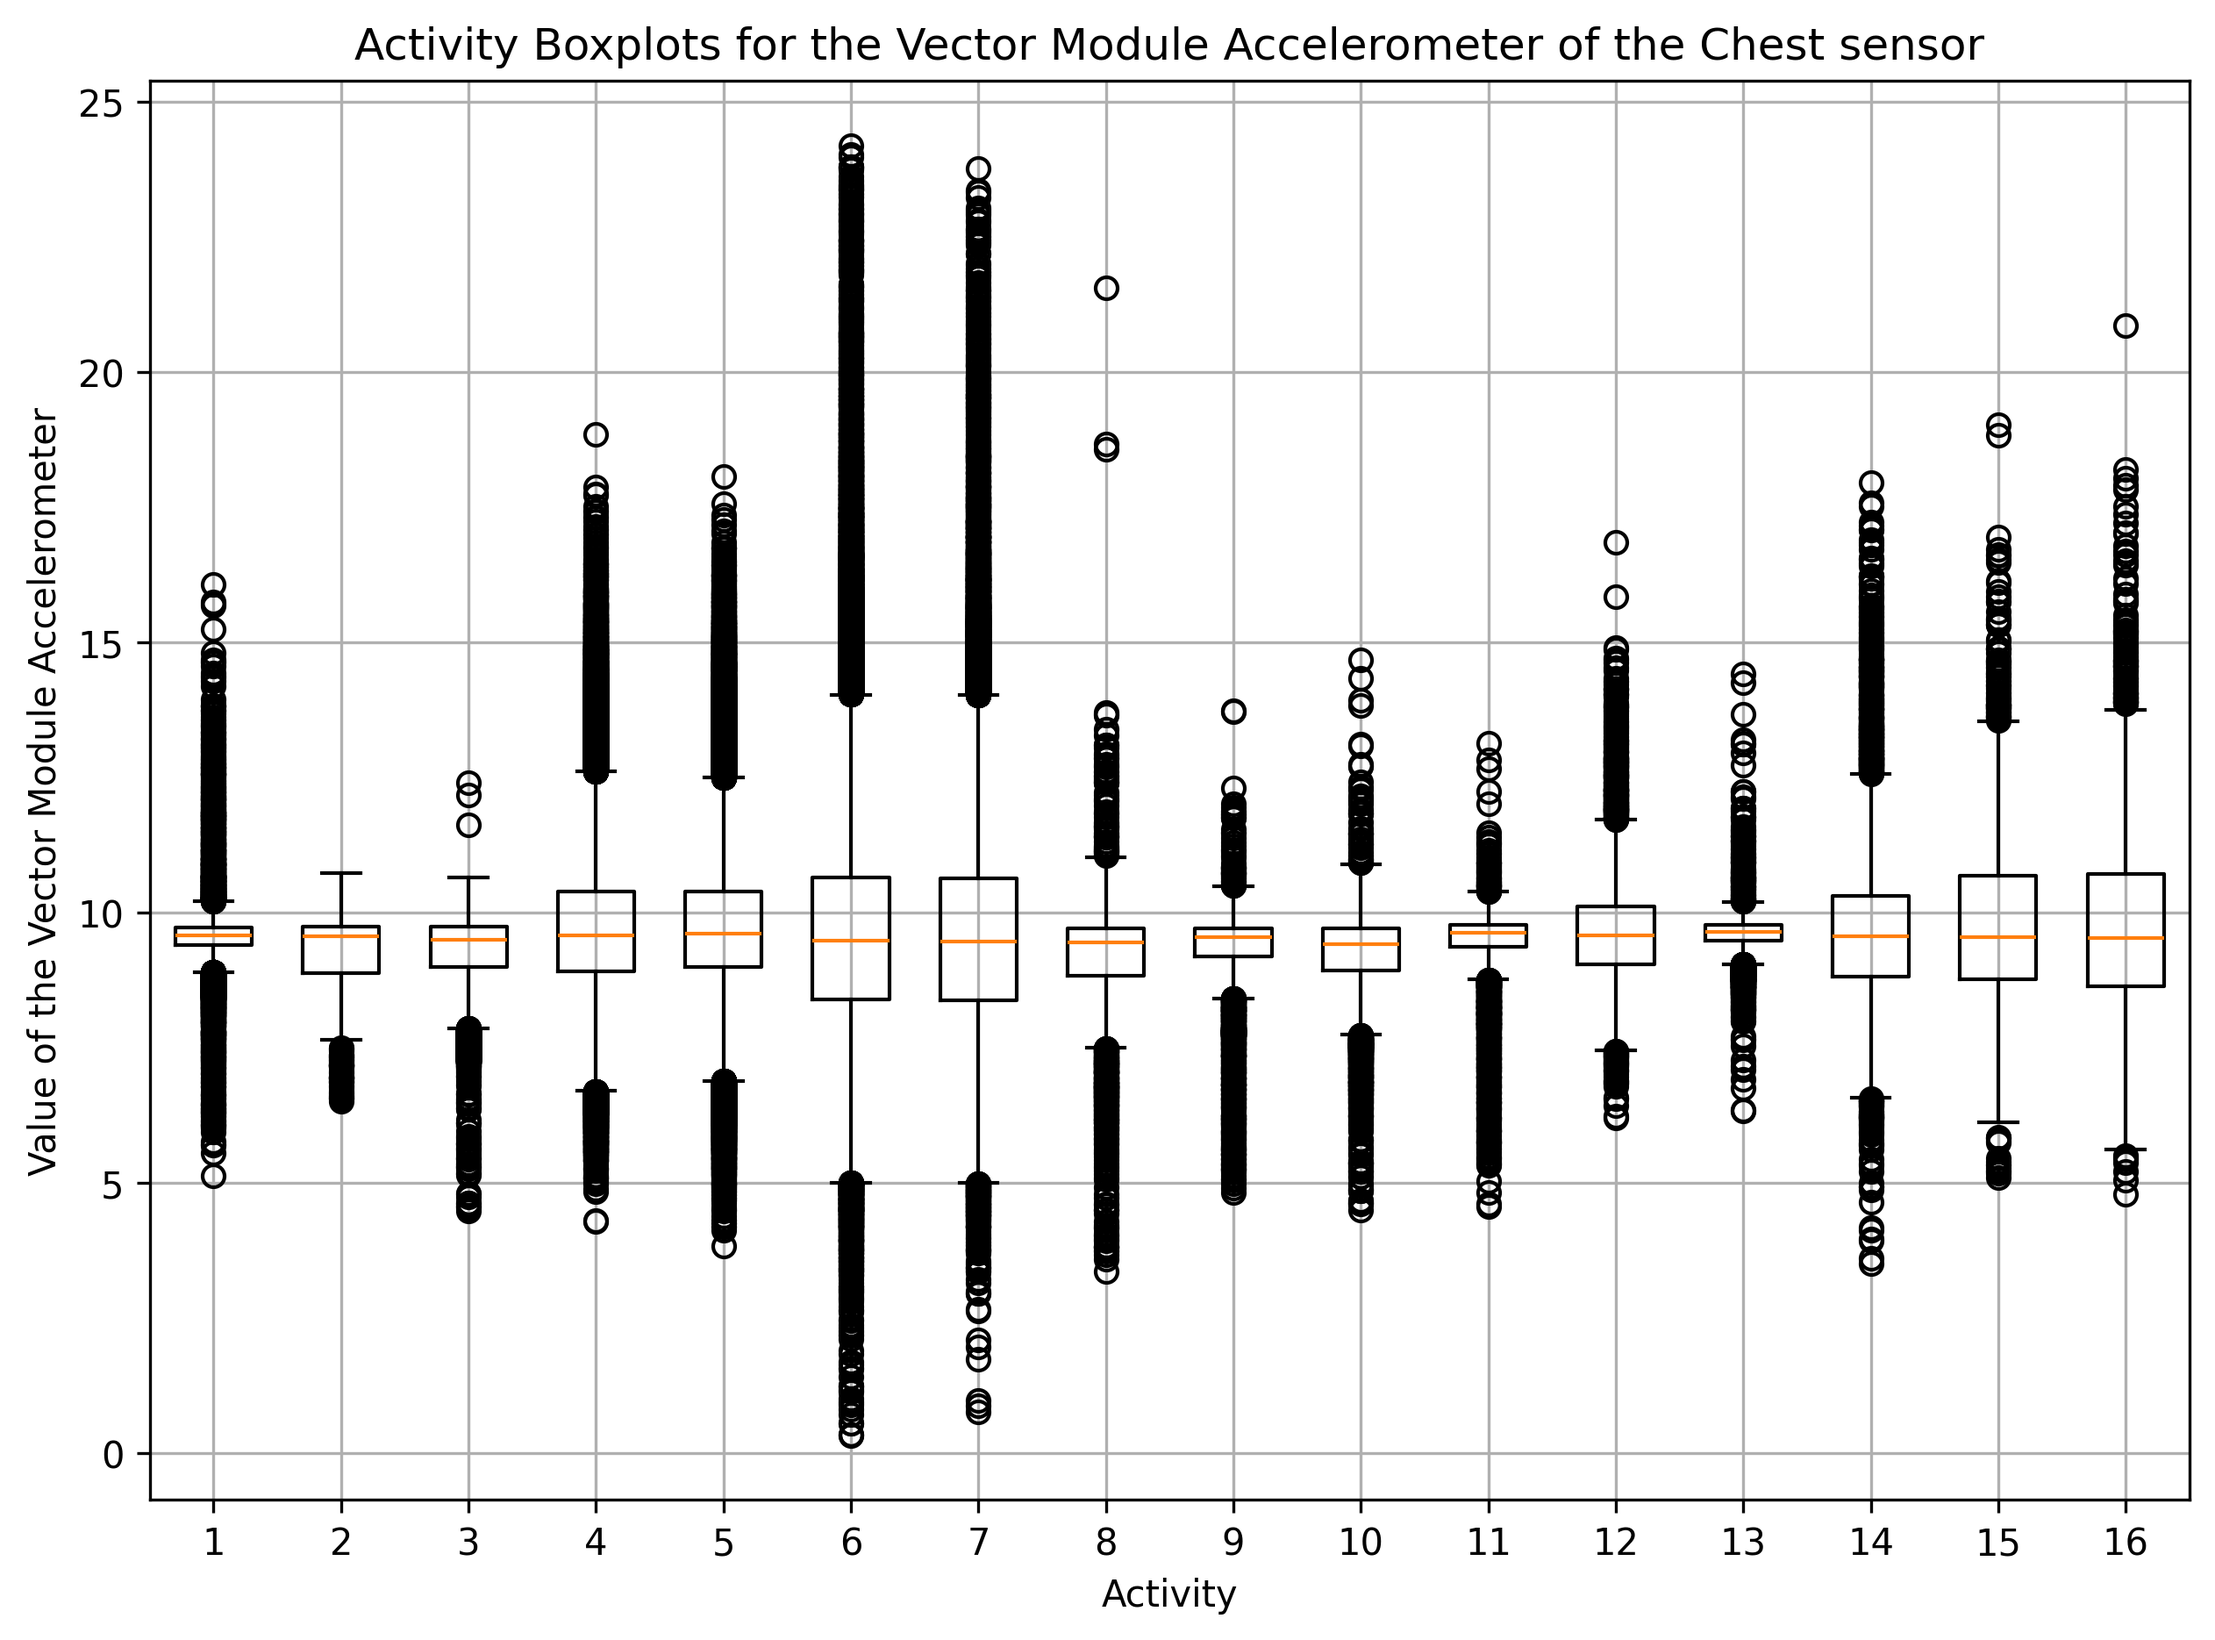
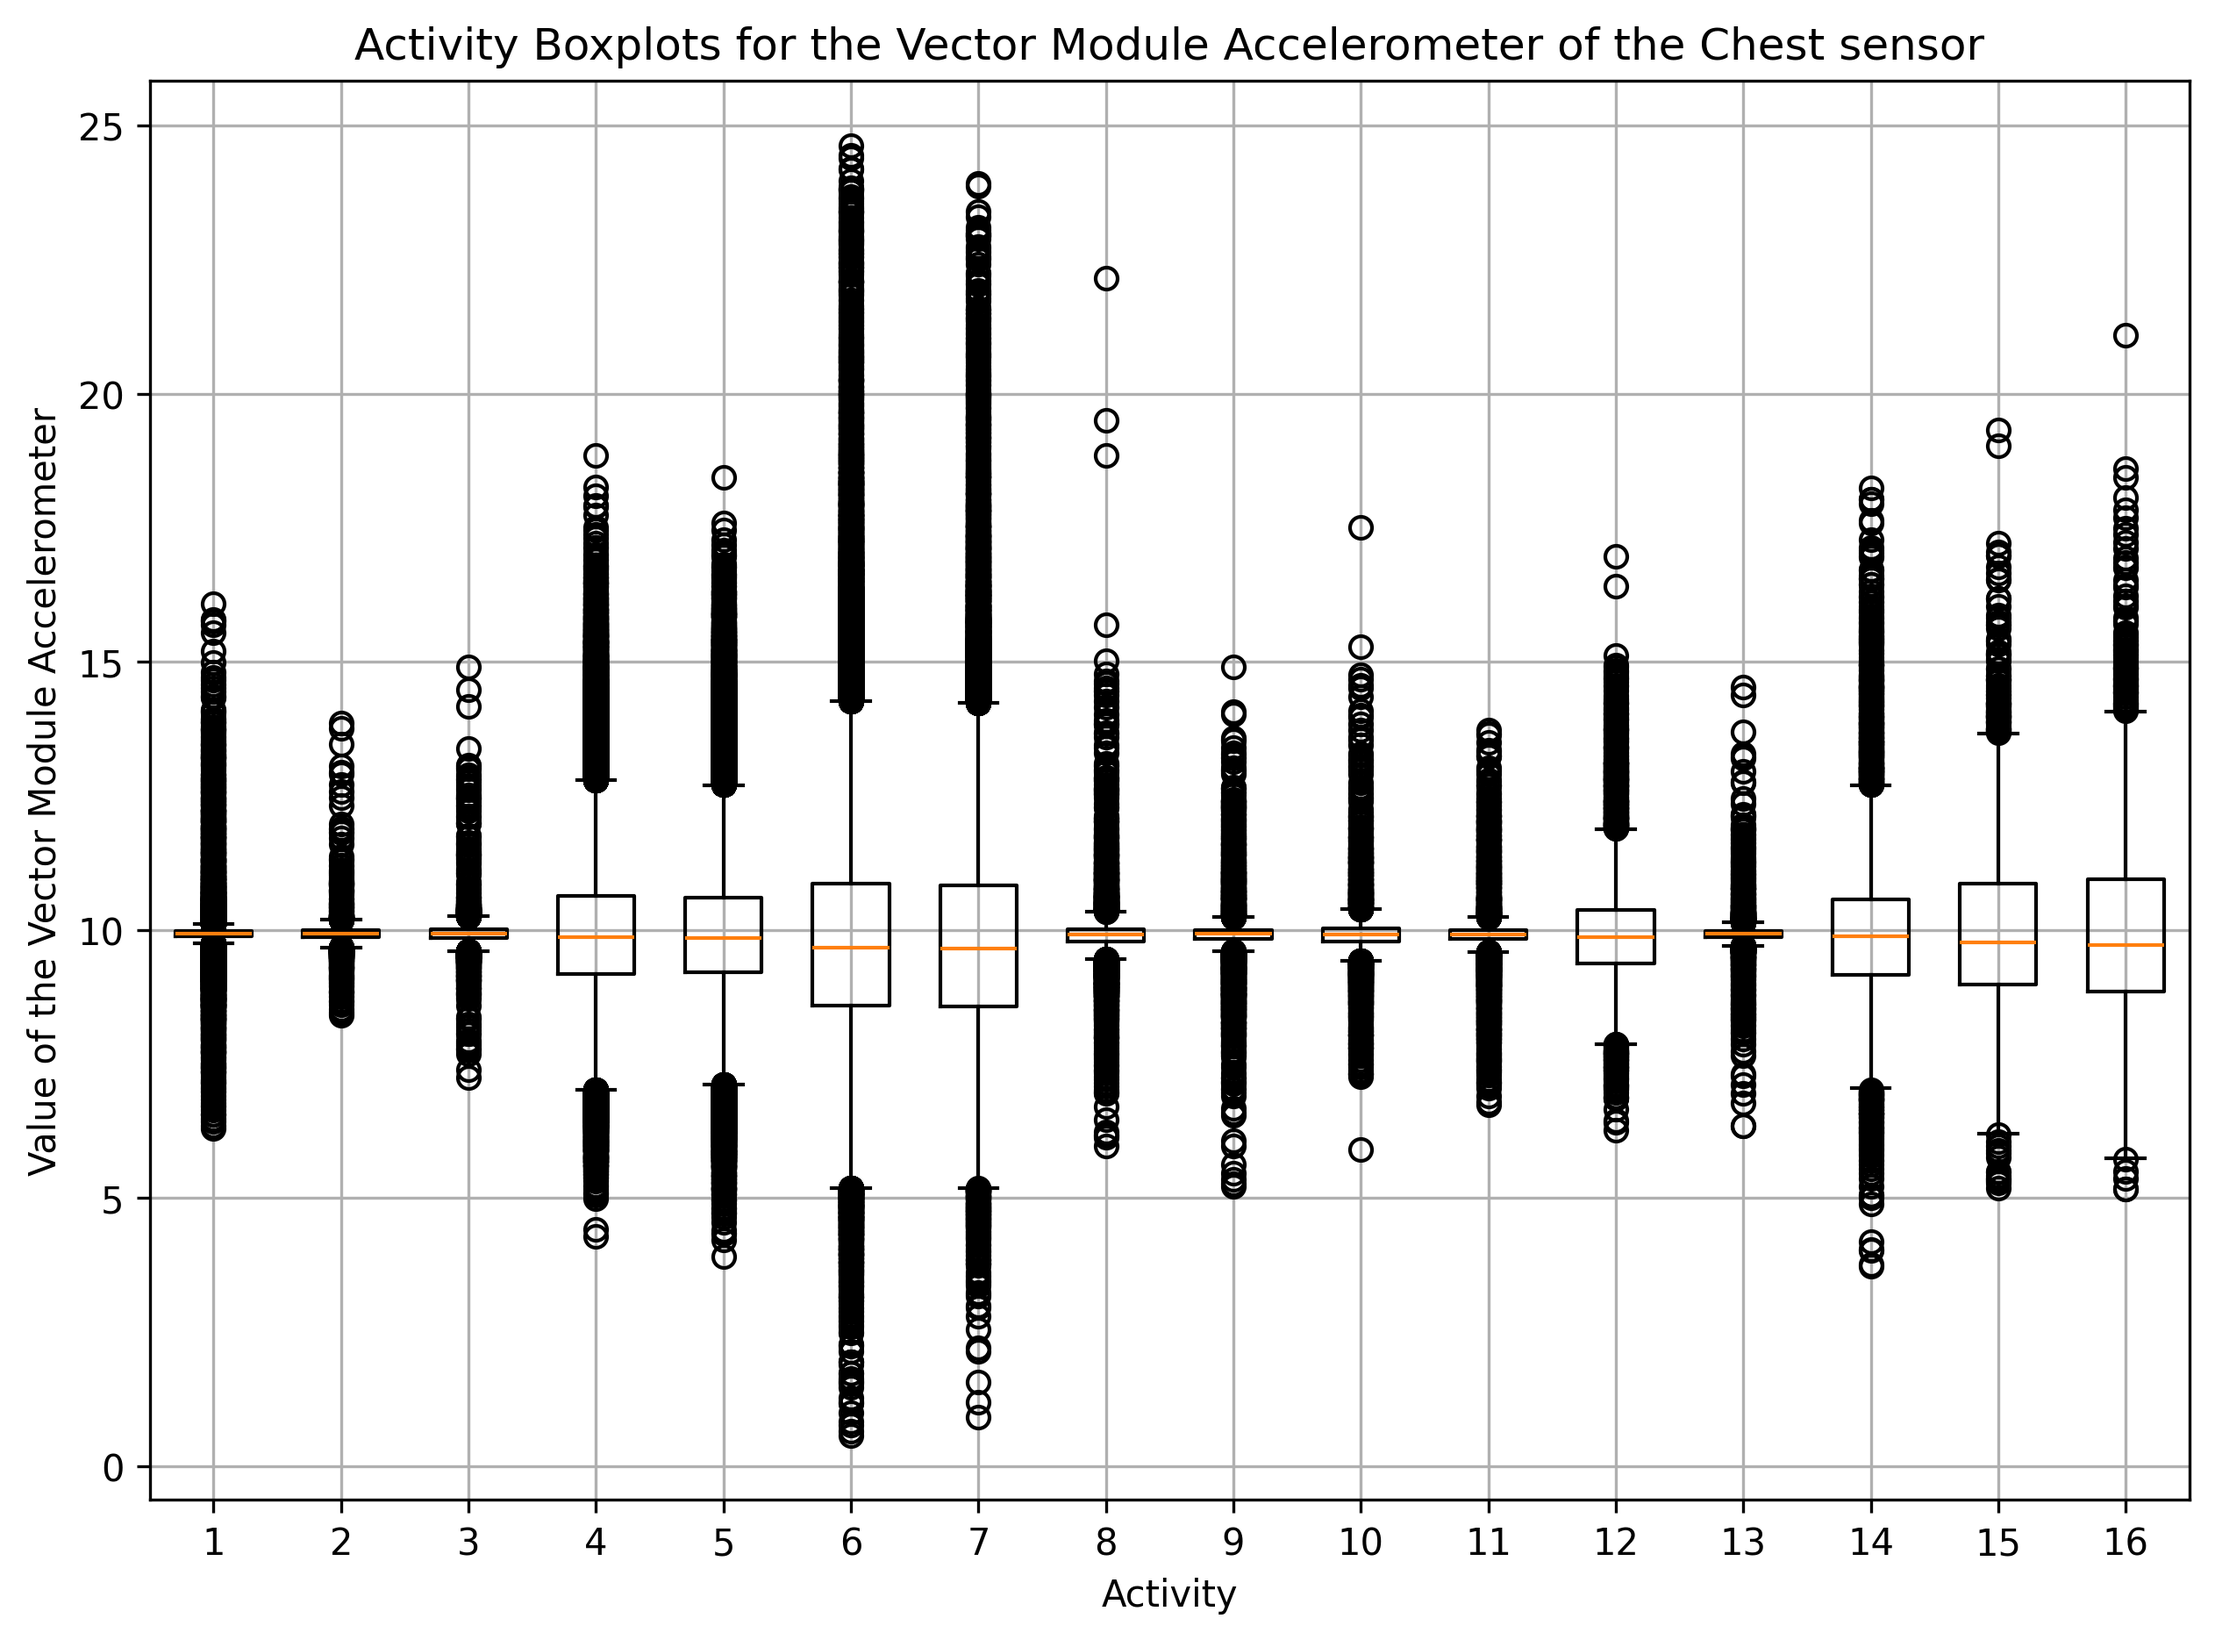
add images & ex3_4

diff --git a/mainActivity.py b/mainActivity.py
@@ -1,6 +1,7 @@
 import numpy as np
 import matplotlib.pyplot as plt
 import pandas as pd
+from scipy import stats
 
 PATH = "./../FORTH_TRACE_DATASET-master/FORTH_TRACE_DATASET-master"
 PLOT_PATH = "./plots"
@@ -29,7 +30,7 @@ def getIndividual(path, ind_num):
     for j in range(NUM_SENSORS):
         df = pd.read_csv(f'{path}/part{ind_num}/part{ind_num}dev{j + 1}.csv')
         ind.append(df.to_numpy())
-
+    print("Individuals Extracted")
     return ind
 
 # def calculateModule(ind, sensor_num, i_x, i_z):
@@ -42,7 +43,7 @@ def calculateModule(ind_sensor, i_x, i_z):
     # idx - 1,2,3 - accelerometer
     # idx - 4,5,6 - gyroscope
     # idx - 7,8,9 - magnetometer
-    return np.sqrt(np.sum(ind_sensor[:, i_x:i_z]**2, axis=1))   # axis = 1 -> por linha
+    return np.sqrt(np.sum(ind_sensor[:, i_x:i_z + 1]**2, axis=1))   # axis = 1 -> por linha
 
 def boxPlot_modules(plot = True):
     outliers = []
@@ -175,6 +176,8 @@ def create_list_by_sensor():
         sensors_data.append(all_the_data) 
     return sensors_data
 
+def density(num_outliers, num_points):
+    return num_outliers / num_points * 100
 
 def calculateDensityOutliers(num_outliers_per_activity):
     print("------- DENSITY ------")
@@ -183,7 +186,7 @@ def calculateDensityOutliers(num_outliers_per_activity):
         for v in range(3):
             print(f"  --------- Vector {titles_vectors[v]} ---------")
             for a in range(NUM_ACTIVITIES):
-                d = num_outliers_per_activity[s][v][a][0] / num_outliers_per_activity[s][v][a][1] * 100
+                d = density(num_outliers_per_activity[s][v][a][0], num_outliers_per_activity[s][v][a][1])
                 print(f"    {activities.loc[a, 'name']}: {d:.2f}%")
     return
 
@@ -219,9 +222,10 @@ def show_outliers(start_idx, k, title):
         plt.show()
     return
 
-def show_outliers(start_idx, k, title):
+def show_outliers(start_idx, k, title, plot = True):
     sensors_list = create_list_by_sensor()
     for s in range(NUM_SENSORS):
+        print(f"\tSensor {titles_sensors[s]}")
         colors = []
         this_sensor = sensors_list[s]
         y = calculateModule(this_sensor, start_idx, start_idx + 2)
@@ -239,7 +243,7 @@ def show_outliers(start_idx, k, title):
                 outliers_mask[mask] = np.abs(z) > k  # marca só os dessa atividade
 
         colors.extend(np.where(outliers_mask, "red", "blue"))
-        print(colors[:50])
+        #print(colors[:50])
         plt.figure(figsize = (8,5))
         plt.scatter(x, y, c=colors, s=10, alpha=0.6)
         plt.xticks(range(1, NUM_ACTIVITIES + 1))
@@ -249,19 +253,24 @@ def show_outliers(start_idx, k, title):
         plt.legend()
         plt.grid(True, linestyle="--", alpha=0.5)
         plt.savefig(PLOT_PATH + "/ex3_4" + f"/sensor{s}_{title}.png", dpi=300, bbox_inches="tight")  # png, 300dpi, remove extra whitespace
-        plt.show()
+        if plot:
+            plt.show()
+        plt.close()
 
     return
 
-def ex_3_4(k):
+def ex_3_4(k, plot = True):
     # accelerometter:
-    show_outliers(1, k, titles_vectors[0])
+    print(f"Vector {titles_vectors[0]}:")
+    show_outliers(1, k, titles_vectors[0], plot)
 
     # gyroscope
-    show_outliers(4, k, titles_vectors[1])
+    print(f"Vector {titles_vectors[1]}:")
+    show_outliers(4, k, titles_vectors[1], plot)
 
     # mangetometer
-    show_outliers(7, k, titles_vectors[2])
+    print(f"Vector {titles_vectors[2]}:")
+    show_outliers(7, k, titles_vectors[2], plot)
 
     return
 
@@ -296,30 +305,49 @@ def kmeans(X, n_clusters=3, max_iters=100, tol=1e-4, random_state=None):
 
     return centroids, labels
 
+def ex_3_8(data):
+    calculateDensityOutliers(data)    
+
+def ex_4_1():
+    distribuiçoes = []
+    # normalidade das variaveis para cada atividade
+    for s in range(NUM_SENSORS):
+        sensor = sensors_data[s]
+        sensor[]
+
+    return
+
 def main():
     # EX 2
-    getFiles(PATH)                 # get all the individuals
+    getFiles(PATH)                  # get all the individuals
     ind = getIndividual(PATH, 0)    # get one individual
-    #print(individuals)
     #print(calculateModule(ind[0], 1, 3))
 
     # EX 3.1
 
-    num_outliers_per_sensor = boxPlot_modules_3(plot = False)  #This is the right one
+    #num_outliers_per_sensor = boxPlot_modules_3(plot = False)  #This is the right one
 
     #print(num_outliers_per_sensor)
     
     # EX 3.2 - analyse outliers
-    calculateDensityOutliers(num_outliers_per_sensor)
+    #calculateDensityOutliers(num_outliers_per_sensor)
 
     # EX 3.3
     # created: z_scores()
 
     # EX 3.4
     k = 3       # 3 ; 3.5 ; 4
-    ex_3_4(k)
+    #ex_3_4(k, plot = False)
 
     # EX 3.6
+
+    # EX 3.8
+    #ex_3_8()
+
+    # EX 4.1
+    
+    create_list_by_sensor()
+    print(type(sensors_data))
 
 
     return
